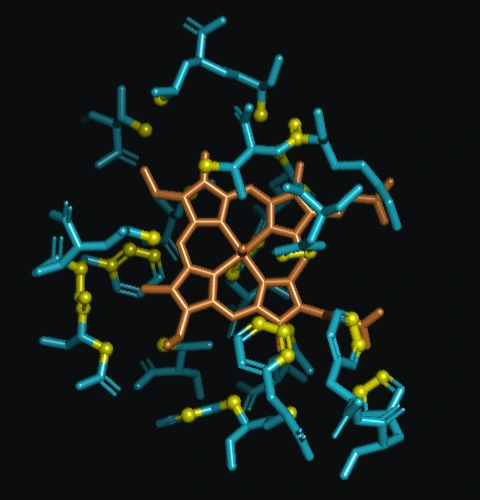
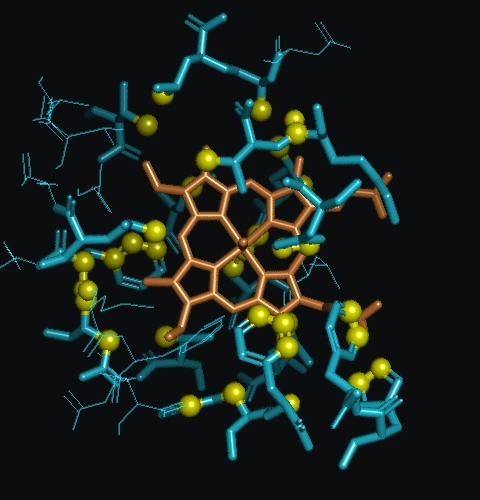
docs: align the residue comparison with the distance chapter

diff --git a/docs/selections.html b/docs/selections.html
@@ -172,30 +172,34 @@
 <div class="doc-page-nav"><button type="button" data-nav="prev"></button><span class="page-counter"></span><button type="button" data-nav="next"></button></div>
 </section>
 
-<section class="doc-page" id="residues" data-title="From atoms to residues" data-src="../assets/pdb/1HHO.pdb" data-command="select heme_a, chain A2 and resn HEM; select protein_a, chain A and polymer.protein; select near_a, protein_a within 4 of heme_a; select pocket_a, byres (near_a); disable *_a; hide everything; color gray; color chain, polymer; show sticks, heme_a; color orange, heme_a; set sphere_scale, 0.24; show spheres, near_a; color yellow, near_a; orient heme_a; turn y, 75; zoom heme_a, buffer=5">
+<section class="doc-page" id="residues" data-title="From atoms to residues" data-src="../assets/pdb/1HHO.pdb" data-command="select protein_a, chain A and polymer.protein; select heme_a, chain A2 and resn HEM; select wider_a, protein_a within 6 of heme_a; select near_a, protein_a within 4 of heme_a; select pocket_a, byres (near_a); disable *_a; hide everything; color gray; color chain, polymer; show lines, byres (wider_a); show sticks, heme_a; color orange, heme_a; set sphere_scale, 0.36; color yellow, near_a; show spheres, near_a; orient heme_a; turn y, 75; zoom heme_a, buffer=5">
 <div class="docs-section">
-<h2>Recover the residues around the heme</h2>
-<p>The 35 yellow spheres are the atoms of chain A within 4 Å of the orange heme. Pick a sphere at the edge of the pocket, then show its whole residue. Follow the bonds out from that atom.</p>
-<button type="button" class="cmd-run prepare-view" data-cmd="select heme_a, chain A2 and resn HEM; select protein_a, chain A and polymer.protein; select near_a, protein_a within 4 of heme_a; select pocket_a, byres (near_a); disable *_a; show sticks, pocket_a" data-cmd-alt="hide sticks, polymer.protein" disabled><span class="prepare-label">Show whole residues (byres)</span><span class="restore-label">Show only the 35 nearby atoms</span></button>
-<p><code>byres (near_a)</code> includes every atom in each residue touched by the original selection. The yellow spheres mark the original 35. The turquoise sticks reveal the <strong>123 additional atoms</strong>, including parts of the residues that extend beyond 4 Å.</p>
-<div class="selection-frames"><figure><img src="../assets/images/selections/near.webp" width="480" height="500" alt="Orange heme surrounded by 35 yellow spheres at the positions of nearby protein atoms."><figcaption>35 protein atoms pass the distance test.</figcaption></figure><figure><img src="../assets/images/selections/pocket.webp" width="480" height="500" alt="The same yellow atoms and orange heme with bonds drawn through all 18 surrounding residues."><figcaption>158 atoms belong to the 18 complete residues.</figcaption></figure></div>
-<p>The result contains <strong>158 atoms in 18 residues</strong>. Count one alpha carbon per selected protein residue as a cross-check.</p>
+<h2>Which residues contain the 35 nearby atoms?</h2>
+<p>Start with the 4 Å view from the previous chapter. The orange sticks are the heme, and the 35 yellow spheres mark nearby protein atoms. Pick a yellow sphere and follow the thin bonds away from it. How much of that residue lies beyond the cutoff?</p>
+<p>The expression <code>byres (near_a)</code> takes each atom in <code>near_a</code> and includes every atom in its residue. A single yellow atom is enough to bring in a whole residue.</p>
+<h3>Compare atoms and whole residues</h3>
+<p>Choose <strong>Show whole residues</strong> to draw all 18 residues as sticks. The yellow spheres stay in place. The turquoise sticks trace the 123 additional atoms, bringing the total to 158. Choose <strong>Show nearby atoms</strong> to return to the 35 that passed the distance test.</p>
+<div class="distance-views" role="group" aria-label="Selection extent"><button type="button" class="cmd-run prepare-view" data-cmd="select protein_a, chain A and polymer.protein; select heme_a, chain A2 and resn HEM; select near_a, protein_a within 4 of heme_a; select pocket_a, byres (near_a); disable *_a; disable sample; hide sticks, protein_a" disabled>Show nearby atoms</button> <button type="button" class="cmd-run prepare-view" data-cmd="select protein_a, chain A and polymer.protein; select heme_a, chain A2 and resn HEM; select near_a, protein_a within 4 of heme_a; select pocket_a, byres (near_a); disable *_a; disable sample; show sticks, pocket_a" disabled>Show whole residues</button></div>
+<details><summary>Read the selection commands</summary>
+<p>The first command measures from the heme. The second expands the result to whole residues. To count those residues, select their alpha carbons. Each of these protein residues contains one.</p>
 <div class="command-example"><div class="command-lines">
+<div class="command-line"><code id="residue-neighbors">select near_a, protein_a within 4 of heme_a</code><span class="command-line-actions"><button type="button" class="cmd-run command-run" data-run-example data-cmd-ref="residue-neighbors" disabled>Run</button><button type="button" data-copy="residue-neighbors" aria-label="Copy select near_a, protein_a within 4 of heme_a">Copy</button></span></div>
+<div class="command-line"><code id="residue-expansion">select pocket_a, byres (near_a)</code><span class="command-line-actions"><button type="button" class="cmd-run command-run" data-run-example data-cmd-ref="residue-expansion" disabled>Run</button><button type="button" data-copy="residue-expansion" aria-label="Copy select pocket_a, byres (near_a)">Copy</button></span></div>
 <div class="command-line"><code id="example-41">select sample, pocket_a and name CA</code><span class="command-line-actions"><button type="button" class="cmd-run command-run" data-run-example data-cmd-ref="example-41" disabled>Run</button><button type="button" data-copy="example-41" aria-label="Copy select sample, pocket_a and name CA">Copy</button></span></div>
 </div></div>
-<h3>Look at histidine 87</h3>
-<p>The NE2 nitrogen lies about 1.9 Å from the heme iron. Its backbone alpha carbon is over 6 Å from the nearest heme atom. Predict which of those two atoms belongs to the original 4 Å selection, then repeat for the expanded set.</p>
+<p>The console reports 35 atoms, 158 atoms and 18 alpha carbons. To see the difference within one residue, try histidine 87. Its NE2 nitrogen lies about 1.9 Å from the heme iron, while its alpha carbon is over 6 Å from the nearest heme atom.</p>
 <div class="command-example"><div class="command-lines">
 <div class="command-line"><code id="example-42">select sample, near_a and resi 87 and name NE2+CA</code><span class="command-line-actions"><button type="button" class="cmd-run command-run" data-run-example data-cmd-ref="example-42" disabled>Run</button><button type="button" data-copy="example-42" aria-label="Copy select sample, near_a and resi 87 and name NE2+CA">Copy</button></span></div>
 <div class="command-line"><code id="example-43">select sample, pocket_a and resi 87 and name NE2+CA</code><span class="command-line-actions"><button type="button" class="cmd-run command-run" data-run-example data-cmd-ref="example-43" disabled>Run</button><button type="button" data-copy="example-43" aria-label="Copy select sample, pocket_a and resi 87 and name NE2+CA">Copy</button></span></div>
 </div></div>
-<p>The first query returns one atom (NE2), the second returns both. Expanding to a whole chain takes the same idea one level higher.</p>
+<p>Only NE2 passes the distance test. Both atoms belong to the expanded selection. To expand one level further, use <code>bychain</code> to select all of chain A.</p>
 <div class="command-example"><div class="command-lines">
 <div class="command-line"><code id="example-44">select sample, bychain (near_a)</code><span class="command-line-actions"><button type="button" class="cmd-run command-run" data-run-example data-cmd-ref="example-44" disabled>Run</button><button type="button" data-copy="example-44" aria-label="Copy select sample, bychain (near_a)">Copy</button></span></div>
-<div class="command-line"><code id="example-45">show cartoon, sample</code><span class="command-line-actions"><button type="button" class="cmd-run command-run" data-run-example data-cmd-ref="example-45" disabled>Run</button><button type="button" data-copy="example-45" aria-label="Copy show cartoon, sample">Copy</button></span></div>
-<div class="command-line"><code id="example-46">zoom sample, buffer=3</code><span class="command-line-actions"><button type="button" class="cmd-run command-run" data-run-example data-cmd-ref="example-46" disabled>Run</button><button type="button" data-copy="example-46" aria-label="Copy zoom sample, buffer=3">Copy</button></span></div>
 </div></div>
-<p>The markers now trace the entire protein chain A. Reset chapter to return to the pocket.</p>
+</details>
+<details><summary>Compare the two views side by side</summary>
+<div class="selection-frames"><figure><img src="../assets/images/selections/near.webp" width="480" height="500" alt="Orange heme surrounded by 35 yellow spheres at the positions of nearby protein atoms."><figcaption>35 protein atoms pass the distance test.</figcaption></figure><figure><img src="../assets/images/selections/pocket.webp" width="480" height="500" alt="The same yellow atoms and orange heme with bonds drawn through all 18 surrounding residues."><figcaption>158 atoms belong to the 18 complete residues.</figcaption></figure></div>
+</details>
 </div>
 <div class="doc-page-nav"><button type="button" data-nav="prev"></button><span class="page-counter"></span><button type="button" data-nav="next"></button></div>
 </section>
